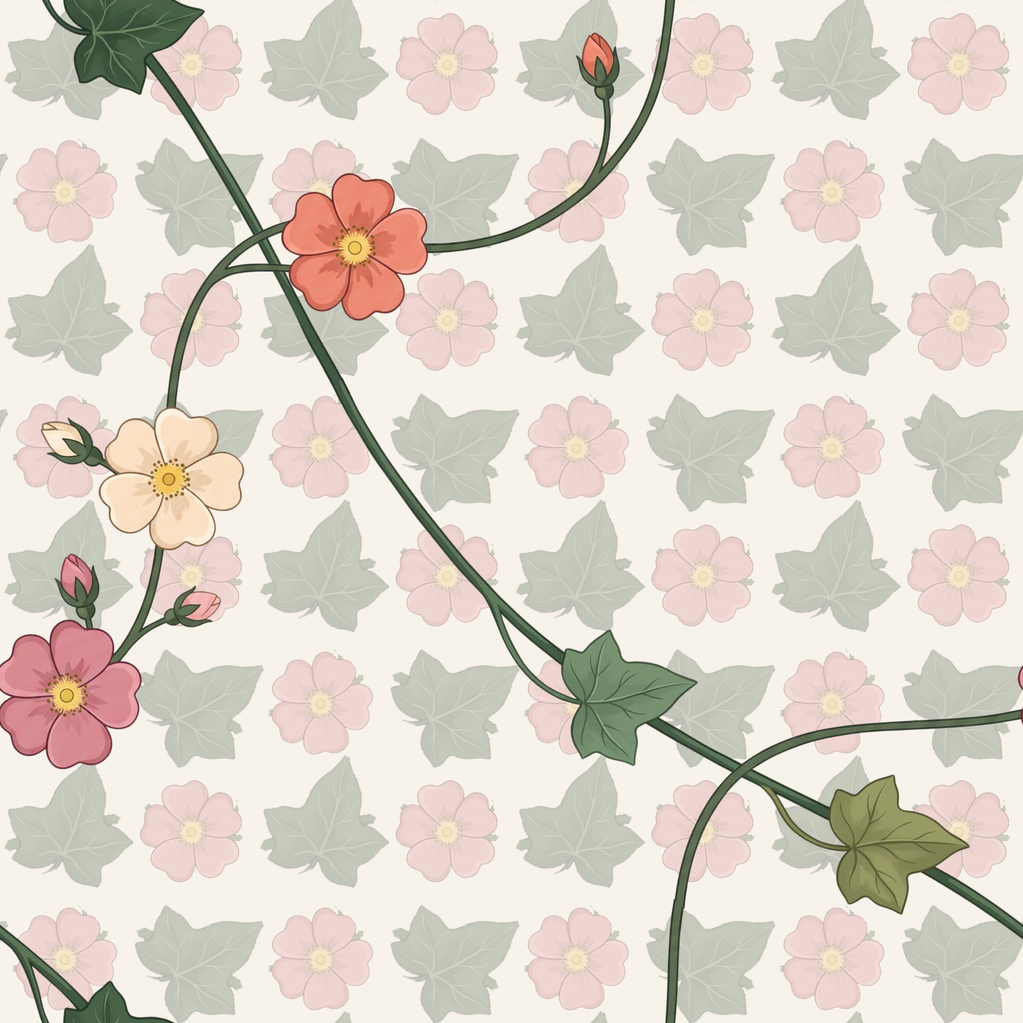
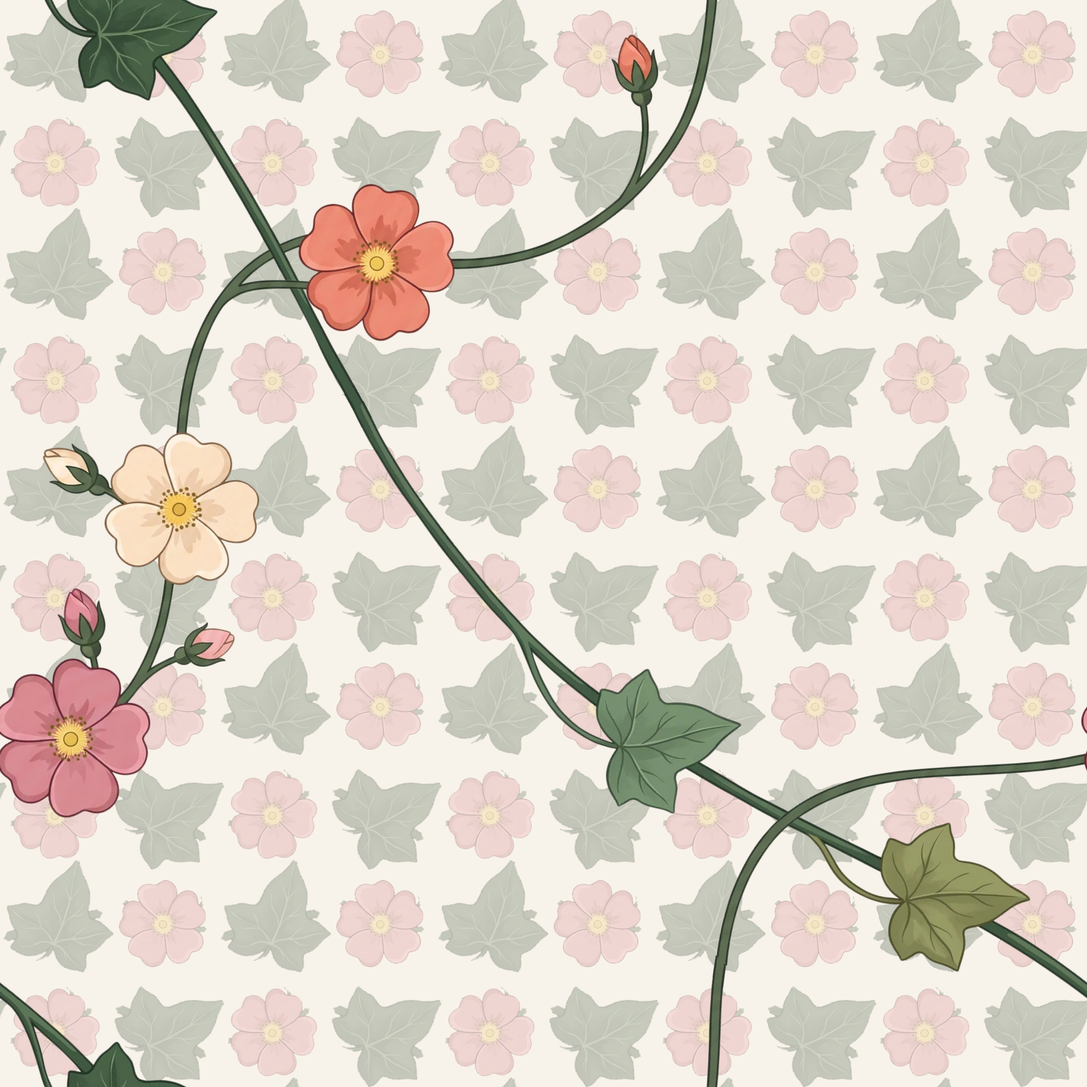
Ситец: геометрическая маска стебля (над/под, 14 узлов), два слоя на R=2175 n=5 с плиткой Gemini, промпты ФОН и C v2, холсты Printify
Claude-Session: https://claude.ai/code/session_01V1ND1TKADLpK8q5yuLYU2P

diff --git a/паттерн_ситец/фон/фон_и_лозы.py b/паттерн_ситец/фон/фон_и_лозы.py
@@ -1,12 +1,15 @@
-# Пример «два слоя»: бледный мелкий фон с шагом R/4 (бесшовен, т.к. 4 повтора на плитку) + 2 крупные лозы (A листья, B шиповник).
-#   python -I фон/фон_и_лозы.py --fg фон/перед_AB_прозр.png --out фон/пример_2_слоя.png
+# «Два слоя»: мелкий ditsy-фон с шагом R/n (бесшовен, т.к. n целых повторов на плитку) + 2 крупные лозы (A листья, B шиповник).
+# R=2175 (=4350/2, делит 8700), n=5 -> шаг 435 px. Фон: --tile фон/ditsy_плитка.png (картинка из Gemini, промпт в ПРОМПТЫ_ситец.md),
+# без --tile рисуется временный фон из вырезок лент (грубый).
+#   python -I сборка_по_узлам.py --size 2175 --params узлы/параметры_v3_AB.json --prefix схема3_ --out фон/перед_AB.png
+#   python -I фон/фон_и_лозы.py --size 2175 --n 5 --tile фон/ditsy_плитка.png --fg фон/перед_AB_прозр.png --out фон/ситец_2слоя.png
 import argparse, random, math
 import numpy as np
 from PIL import Image
 from scipy import ndimage as ndi
 ap=argparse.ArgumentParser(); ap.add_argument('--fg',default='фон/перед_AB_прозр.png'); ap.add_argument('--out',default='фон/пример_2_слоя.png')
-ap.add_argument('--bg',default='F8F3EA'); ap.add_argument('--tint',type=float,default=0.28); ap.add_argument('--n',type=int,default=4); a=ap.parse_args()
-random.seed(3); R=2048; P=R//a.n
+ap.add_argument('--bg',default='F8F3EA'); ap.add_argument('--tint',type=float,default=0.28); ap.add_argument('--n',type=int,default=5); ap.add_argument('--size',type=int,default=2175); ap.add_argument('--tile',default=''); ap.add_argument('--tint_k',type=float,default=1.0); a=ap.parse_args()
+random.seed(3); R=a.size; assert R%a.n==0, 'size должен делиться на n нацело'; P=R//a.n
 bgc=tuple(int(a.bg[i:i+2],16) for i in (0,2,4))
 def comps(path,minarea,maxarea):
     im=Image.open(path).convert('RGBA'); arr=np.array(im); al=arr[...,3]>200
@@ -20,18 +23,33 @@ def comps(path,minarea,maxarea):
             ys,xs=np.nonzero(m); crop=arr[ys.min():ys.max()+1,xs.min():xs.max()+1].copy()
             crop[...,3]=np.where(m[ys.min():ys.max()+1,xs.min():xs.max()+1],crop[...,3],0); out.append(Image.fromarray(crop))
     return out
-leaves=comps('лента/схема3_A.png',8000,10**7); flowers=comps('лента/схема3_B.png',8000,10**7)
-print('листьев',len(leaves),'цветов',len(flowers))
-def tint(im,s):
-    arr=np.array(im).astype(float); arr[...,:3]=arr[...,:3]*s+np.array(bgc)*(1-s); return Image.fromarray(arr.astype(np.uint8))
-def fit(im,h): return im.resize((max(1,int(im.width*h/im.height)),h),Image.LANCZOS)
-tile=Image.new('RGBA',(P,P),bgc+(255,))
-spots=[(0.25,0.25,leaves,0.50,18),(0.75,0.25,flowers,0.40,0),(0.25,0.75,flowers,0.40,40),(0.75,0.75,leaves,0.50,-25)]
-for fx,fy,pool,hh,rot in spots:
-    m=tint(random.choice(pool),a.tint); m=fit(m,int(P*hh)).rotate(rot,expand=True,resample=Image.BICUBIC)
-    for ox in (-P,0,P):                                        # обёртка по тору: часть, ушедшая за край, возвращается с другой стороны
-        for oy in (-P,0,P):
-            tile.paste(m,(int(fx*P-m.width/2)+ox,int(fy*P-m.height/2)+oy),m)
+def gemini_tile(path):
+    """Плитка из Gemini -> P×P: цвет её фона приводится к --bg делением по каналам, края в 4 px заливаются фоном (шов исключён)."""
+    im=Image.open(path).convert('RGB'); w,h=im.size; arr=np.array(im).astype(float)
+    ring=np.concatenate([arr[:12].reshape(-1,3),arr[-12:].reshape(-1,3),arr[:,:12].reshape(-1,3),arr[:,-12:].reshape(-1,3)])
+    est=np.median(ring,axis=0); print('фон плитки Gemini',est.astype(int),'-> цель',bgc)
+    edge=np.zeros((h,w),bool); e=max(2,int(round(.03*min(w,h)))); edge[:e]=edge[-e:]=True; edge[:,:e]=edge[:,-e:]=True
+    touch=100*((np.abs(arr-est).max(axis=2)>28)&edge).sum()/edge.sum()
+    print('ВНИМАНИЕ: мотивы у края плитки Gemini (%.2f%% кромки), будут срезаны, перегенерировать'%touch if touch>0.2 else 'кромка плитки Gemini чистая (%.2f%%)'%touch)
+    arr=np.clip(arr/est*np.array(bgc),0,255)
+    arr=arr*a.tint_k+np.array(bgc)*(1-a.tint_k)
+    arr[:4]=arr[-4:]=bgc; arr[:,:4]=arr[:,-4:]=bgc
+    return Image.fromarray(arr.astype(np.uint8)).resize((P,P),Image.LANCZOS).convert('RGBA')
+if a.tile:
+    tile=gemini_tile(a.tile)
+else:
+    leaves=comps('лента/схема3_A.png',8000,10**7); flowers=comps('лента/схема3_B.png',8000,10**7)
+    print('листьев',len(leaves),'цветов',len(flowers))
+    def tint(im,s):
+        arr=np.array(im).astype(float); arr[...,:3]=arr[...,:3]*s+np.array(bgc)*(1-s); return Image.fromarray(arr.astype(np.uint8))
+    def fit(im,h): return im.resize((max(1,int(im.width*h/im.height)),h),Image.LANCZOS)
+    tile=Image.new('RGBA',(P,P),bgc+(255,))
+    spots=[(0.25,0.25,leaves,0.50,18),(0.75,0.25,flowers,0.40,0),(0.25,0.75,flowers,0.40,40),(0.75,0.75,leaves,0.50,-25)]
+    for fx,fy,pool,hh,rot in spots:
+        m=tint(random.choice(pool),a.tint); m=fit(m,int(P*hh)).rotate(rot,expand=True,resample=Image.BICUBIC)
+        for ox in (-P,0,P):                                        # обёртка по тору: часть, ушедшая за край, возвращается с другой стороны
+            for oy in (-P,0,P):
+                tile.paste(m,(int(fx*P-m.width/2)+ox,int(fy*P-m.height/2)+oy),m)
 bg=Image.new('RGBA',(R,R))
 for x in range(a.n):
     for y in range(a.n): bg.paste(tile,(x*P,y*P))
@@ -40,6 +58,8 @@ t=Image.new('RGB',(R*2,R*2))
 for x in (0,1):
     for y in (0,1): t.paste(out,(x*R,y*R))
 t.resize((1600,1600),Image.LANCZOS).save(a.out.replace('.png','_2x2.jpg'),quality=90)
+t.crop((R-600,R-600,R+600,R+600)).save(a.out.replace('.png','_стык2x2_центр.jpg'),quality=92)     # полный размер: крест из 4 копий, 1200×1200 вокруг стыка
+t.crop((R-600,0,R+600,1200)).save(a.out.replace('.png','_стык2x2_верх.jpg'),quality=92)
 o=np.array(out).astype(float); inner=(np.abs(o[:,1:]-o[:,:-1]).mean()+np.abs(o[1:]-o[:-1]).mean())/2
 # швы фона: разница на границах под-плиток (каждые P px) против обычных соседних столбцов/строк
 def seam(o,P):

diff --git a/паттерн_ситец/сборка_по_узлам.py b/паттерн_ситец/сборка_по_узлам.py
@@ -29,26 +29,27 @@ LINES = [dict(p=GEO[k][0], q=GEO[k][1], c=PH[k].get('c', C0[k]), x0=PH[k].get('x
               flip=PH[k]['flip'], ph=PH[k]['ph']) for k in PH]
 
 
-def vine_only(im):
+GUIDE = dict(A='синяя', B='красная', C='зелёная', D='оранжевая')
+GCOL = dict(A=(40, 90, 220), B=(220, 50, 50), C=(30, 150, 60), D=(240, 140, 10))
+
+
+def vine_only(im, key=None, half=9):
+    """Маска «только стебель»: непрозрачные пиксели ближе half px к кривой направляющей (цветная линия в узлы/направляющая_v3_*).
+    Раньше маску растили заливкой по цвету от левого края — цвет стебля плывёт, заливка обрывалась на трети ленты и узлов не находилось."""
     arr = np.array(im)
-    x = 8
-    ys = np.where(arr[:, x, 3] > 200)[0]
-    groups = np.split(ys, np.where(np.diff(ys) > 3)[0] + 1)
-    g = groups[-1]
-    sy = int(g.mean())
-    seed = arr[sy - 2:sy + 3, x - 2:x + 3, :3].reshape(-1, 3).mean(axis=0)
-    d = np.abs(arr[..., :3].astype(int) - seed[None, None, :]).max(axis=2)
-    cand = (d < 28) & (arr[..., 3] > 200)
-    lab, _ = ndi.label(cand, structure=np.ones((3, 3)))
-    m = lab == lab[sy, x]
-    m = ndi.binary_dilation(m, iterations=3) & (arr[..., 3] > 40)
+    g = np.array(Image.open(f'узлы/направляющая_v3_{key}_{GUIDE[key]}.png').convert('RGB')).astype(int)
+    curve = (np.abs(g - np.array(GCOL[key])).max(axis=2) < 40)
+    if curve.shape != arr.shape[:2]:
+        curve = np.array(Image.fromarray(curve.astype(np.uint8) * 255).resize((arr.shape[1], arr.shape[0]), Image.NEAREST)) > 0
+    dist = ndi.distance_transform_edt(~curve)
+    m = (dist <= half) & (arr[..., 3] > 40)
     out = arr.copy(); out[..., 3] = np.where(m, arr[..., 3], 0)
     return Image.fromarray(out)
 
 
 def load(name):
     im = Image.open(os.path.join(a.dir, name + '.png')).convert('RGBA')
-    return im, vine_only(im)
+    return im, vine_only(im, name[-1])
 
 
 def piece(im, T, flip, m):
@@ -118,7 +119,7 @@ for i in range(len(layers)):
                 continue
             ys, xs = np.nonzero(mk)
             node_list.append((i, j, xs.mean(), ys.mean()))
-print('узлов пересечения:', len(node_list))
+print('узлов пересечения:', len(node_list), [(round(x), round(y)) for _, _, x, y in node_list])
 yy, xx = np.mgrid[0:R, 0:R]
 for idx, (i, j, x, y) in enumerate(sorted(node_list, key=lambda t: (round(t[3] / 150), t[2]))):
     win = i if idx % 2 == 0 else j

diff --git a/паттерн_ситец/холсты_ситец.py b/паттерн_ситец/холсты_ситец.py
@@ -1,0 +1,30 @@
+# Холсты Printify (Fabric by Yard, Cotton Twill, 150 dpi) из бесшовной плитки ситца 2175×2175 (2175 = 4350/2, делит 8700 нацело).
+# Плитка бесшовна по построению, поэтому холст = плитка, уложенная и обрезанная по размеру, пиксель в пиксель, без масштабирования.
+# Каждая граница повтора внутри холста проверяется: перепад на ней сравнивается с перепадом внутри плитки.
+#   python -I холсты_ситец.py --tile фон/ситец_2слоя.png --out холсты [--only 29x18,58x36]
+import argparse, os
+import numpy as np
+from PIL import Image
+Image.MAX_IMAGE_PIXELS = None
+SIZES = {'29x18': (4350, 2700), '58x36': (8700, 5400), '58x108': (8700, 16200), '58x180': (8700, 27000)}
+ap = argparse.ArgumentParser()
+ap.add_argument('--tile', required=True); ap.add_argument('--out', default='холсты'); ap.add_argument('--only', default='')
+ap.add_argument('--quality', type=int, default=90)
+a = ap.parse_args(); os.makedirs(a.out, exist_ok=True)
+tile = np.array(Image.open(a.tile).convert('RGB')); H, W = tile.shape[:2]
+assert H == W and 8700 % W == 0, f'плитка {W}×{H}: нужен квадрат, ширина делит 8700'
+d = lambda a_, b_: float(np.abs(a_.astype(int) - b_.astype(int)).mean())
+inner = (d(tile[:, 1:], tile[:, :-1]) + d(tile[1:], tile[:-1])) / 2
+print(f'плитка {W}×{H}; перепад внутри {inner:.2f}')
+for key, (w, h) in SIZES.items():
+    if a.only and key not in a.only.split(','): continue
+    nx, ny = -(-w // W), -(-h // H)
+    img = np.tile(tile, (ny, nx, 1))[:h, :w]
+    cols = [d(img[:, x], img[:, x - 1]) for x in range(W, w, W)]; rows = [d(img[y], img[y - 1]) for y in range(H, h, H)]
+    cm, rm = (max(cols) if cols else 0.0), (max(rows) if rows else 0.0)
+    print(f'{key}: {w}×{h}; границ повтора по x {len(cols)} (макс. перепад {cm:.2f}), по y {len(rows)} (макс. {rm:.2f}); внутри {inner:.2f}')
+    assert max(cm, rm) < inner * 1.5 + 0.5, 'шов заметнее внутреннего перепада'
+    path = os.path.join(a.out, f'холст_{key}_{w}x{h}.jpg')
+    Image.fromarray(img).save(path, quality=a.quality, subsampling=0, dpi=(150, 150))
+    print(f'  {path}: {os.path.getsize(path) / 1e6:.1f} МБ')
+    del img

diff --git a/паттерн_ситец/узлы/направляющие_v3_залитые.py b/паттерн_ситец/узлы/направляющие_v3_залитые.py
@@ -1,0 +1,18 @@
+# Запасные направляющие для лент схемы v3: кривая СЕРАЯ (зелёная/цветная похожа на стебель, и Gemini её рисует),
+# круги ЗАЛИТЫ светло-серым (Gemini крупнит украшения за контур, а залитый круг читается как «поле для рисунка»).
+# Геометрия та же, что в узлы/направляющие_v3.py (кривая из схема_v3.json + развёртка в ленту).
+#   python -I узлы/направляющие_v3_залитые.py
+import json, math
+from PIL import Image, ImageDraw
+R=2048; ZONE=150
+st=json.load(open('узлы/схема_v3.json',encoding='utf8')); PQ=dict(A=(1,1),B=(1,-1),C=(1,2),D=(2,1))
+SIZE=dict(A=(2000,660),B=(2000,660),C=(2000,438),D=(2000,438)); NAME=dict(A='A',B='B',C='C',D='D')
+for k,prm in st['prm'].items():
+    p,q=PQ[k]; loop=R*math.hypot(p,q); W,H=SIZE[k]; kk=loop/W
+    ss=sorted(st['s'][k]); gaps=[((ss[(i+1)%len(ss)]-s)%1,s) for i,s in enumerate(ss)]; g,s0=max(gaps); o=(s0+g/2)%1
+    f=lambda x: H/2+prm['amp']/kk*math.sin(2*math.pi*prm['cyc']*((x/W+o)%1)+prm['ph'])
+    im=Image.new('RGB',(W,H),(255,255,255)); d=ImageDraw.Draw(im)
+    for s in ss:
+        x=((s-o)%1)*W; r=ZONE/kk; d.ellipse([x-r,f(x)-r,x+r,f(x)+r],fill=(214,214,214))
+    d.line([(x,f(x)) for x in range(W)],fill=(110,110,110),width=7)
+    im.save(f'узлы/направляющая_v3_{k}_серая_залитая.png'); print(k,W,H)

diff --git a/паттерн_ситец/ПРОМПТЫ_ситец.md b/паттерн_ситец/ПРОМПТЫ_ситец.md
@@ -1,4 +1,5 @@
 # Промпты Gemini для лент схемы v3 (ситец)
+Слои «два слоя» (2 лозы A+B поверх фона): фон — раздел «ФОН» в конце файла. Виноград C — раздел «C v2» в конце файла.
 К каждому промпту прикладывать: 1) свою направляющую `узлы/направляющая_v3_<X>_<цвет>.png` (цветная кривая + чёрные круги), 2) `лист_образцов.png`.
 Результат сохранять как `лента/схема3_<X>.png` (прозрачный фон). Общие правила: украшения только внутри чёрных кругов, вне кругов голый стебель, края слева/справа совпадают по высоте/толщине/наклону.
 
@@ -72,4 +73,43 @@
 10. РЕЗУЛЬТАТ: одна лента на белом фоне, украшения только внутри кругов.
 
 Приложены: 1) направляющая с цветной линией и чёрными кругами, 2) лист образцов.
+```
+
+## ФОН — плитка ditsy (мелкие цветочки и веточки), квадрат 1:1, ложится с шагом R/5 (435 px при R=2175)
+Результат сохранить как `фон/ditsy_плитка.png` (квадрат, любой размер от 1024). Сборка: `python -I фон/фон_и_лозы.py --size 2175 --n 5 --tile фон/ditsy_плитка.png --fg фон/перед_AB_прозр.png --out фон/ситец_2слоя.png`.
+Края плитки должны быть пустыми: плитка не рисуется «внахлёст через край», шов получается потому, что у края нет рисунка (скрипт сам приводит цвет фона к кремовому F8F3EA и заливает кромку).
+```
+РИСУЙ: маленькую квадратную плитку-фон для ситцевой ткани: мелкие, редкие, разбросанные в беспорядке цветочки, бутоны и веточки с листиками в стиле винтажного английского ситца (ditsy chintz), плоская гуашь с очень тонкой обводкой, на ровном кремовом фоне.
+
+1. ФОРМАТ: квадрат 1:1, фон одним ровным кремовым цветом #F8F3EA, без текстуры бумаги, без градиента, без теней и виньетки.
+2. ГЛАВНЫЙ ОБЪЕКТ: 18 мелких мотивов, равномерно рассыпанных по квадрату вразброс, без рядов, колонок и решётки: 8 крошечных пятилепестковых цветочков, 5 веточек с 3–5 мелкими листиками, 3 бутона на короткой ножке, 2 одиночных листика. Каждый мотив занимает не больше 9% стороны картинки, то есть они мелкие, как на фоне, а не как главные цветы.
+3. РАЗМЕЩЕНИЕ: расстояние между соседними мотивами не меньше половины размера самого мотива, но не больше двух размеров, чтобы не было ни слипшихся групп, ни больших пустых мест. Каждый мотив повёрнут по-своему (случайный угол 0–360°). Одинаковых соседей рядом нет: цветочки чередуются с веточками.
+4. КРАЯ: ни один мотив не касается края картинки и не заходит за него. Вдоль всех четырёх сторон остаётся пустая полоса фона шириной не меньше 6% стороны. Мотивы не обрезаны.
+5. ПАЛИТРА: приглушённая, как выцветший ситец: пыльно-розовый, кремовый с жёлтой серединкой, шалфейный зелёный, светло-голубой, бледно-лиловый. Контраст к фону невысокий, ничего чёрного и ничего ярко-красного.
+6. СТИЛЬ: ручная роспись гуашью, лепестки и листья заливкой одного цвета с одним более тёмным оттенком внутри, обводка тонкая, в тон мотиву (не чёрная).
+7. ПЕРЕХОД: картинка потом будет повторяться плиткой 5×5 по горизонтали и вертикали, поэтому у каждого края мотивов нет вовсе, вся плотность внутри.
+8. ЧТО ВНУТРИ: только мотивы на ровном фоне.
+9. НЕЛЬЗЯ: крупные цветы, пионы, виноград, бабочки, птицы, рамки, подписи, линии и стебли, соединяющие мотивы, тени под мотивами, текстуру ткани, конфетти из мелких точек, фон другого цвета, мотивы у края.
+10. РЕЗУЛЬТАТ: одна квадратная картинка на кремовом фоне, 18 мелких мотивов внутри, вокруг пустая рамка фона.
+
+Приложен: лист образцов (только для стиля и цветов, композицию с него не копировать).
+```
+
+## C v2 — виноград: гроздь строго внутри круга, лента 4,5:1
+Сохранить как `лента/схема3_C.png` (перезаписать). Исправлено относительно прошлого C: гроздь ниже лозы, лист выше лозы, оба в пределах круга (раньше гроздь уезжала на 150–200 px вниз за круг, ягоды внизу размывались); направляющая серая с залитыми кругами (`узлы/направляющая_v3_C_серая_залитая.png`), зелёную кривую Gemini принимала за стебель.
+```
+РИСУЙ: горизонтальную ленту с одной вьющейся лозой, на которой в четырёх местах висит гроздь винограда с листом, в стиле винтажного английского ситца (chintz), плоская гуашь с тонкой тёмной обводкой, на белом фоне.
+
+1. ФОРМАТ: широкая горизонтальная лента 4,5:1, фон чисто белый.
+2. ГЛАВНЫЙ ОБЪЕКТ: одна тёмно-зелёная лоза, которая точно повторяет изгиб серой линии на изображении. Толщина стебля везде одинаковая, около 1/35 высоты картинки. Серая линия и серые круги — только подсказка, их нельзя рисовать.
+3. ГДЕ УКРАШЕНИЯ: на изображении четыре светло-серых круга, лоза проходит через центр каждого. Диаметр круга около 30% высоты картинки. В каждом круге: один виноградный лист выше лозы (верхняя половина круга) и одна небольшая гроздь ниже лозы (нижняя половина круга), ножка грозди отходит от лозы в центре круга. Гроздь содержит 9–12 ягод, её высота не больше 40% диаметра круга, ширина не больше 45%. Лист по высоте не больше 40% диаметра. Лист, гроздь и ножка целиком лежат внутри серого круга, ни одна ягода и ни один край листа не выходят за его границу. Ягоды круглые, чёткие, непрозрачные, с тёмной обводкой и бликом, самая нижняя ягода такая же чёткая, как верхние, без размытия и полупрозрачности. Четыре грозди разного цвета: сизо-синяя, бордовая, зеленоватая, светло-лиловая.
+4. ВНЕ КРУГОВ: только голый стебель, ни листа, ни ягоды, ни веточки. Всё нарисованное, кроме самой лозы, лежит внутри серых кругов.
+5. КРАЯ: на левом и правом краях картинки стебель на одной высоте, одной толщины и с тем же наклоном, чтобы при склейке копий лоза продолжалась без излома. Рядом с краями ничего, кроме стебля.
+6. ПАЛИТРА: тёмно-зелёный стебель, приглушённые сизые, бордовые, лиловые и зелёные тона, как на листе образцов.
+7. СТИЛЬ: как на листе образцов, ручная роспись, блики на ягодах, прожилки на листьях.
+8. СЕРЫЕ КРУГИ И СЕРАЯ ЛИНИЯ: подсказка расположения, в результате их не должно быть: фон белый, кружков и серой линии нет.
+9. НЕЛЬЗЯ: выходить украшением за круг, грозди больше круга, ягоды вне гроздей, цветы, бабочки, усики вне круга, мелкие точки, тени на фоне, рамки, подписи.
+10. РЕЗУЛЬТАТ: одна лента на белом фоне, в каждом круге лист над лозой и гроздь под лозой, всё внутри круга.
+
+Приложены: 1) направляющая `направляющая_v3_C_серая_залитая.png` (серая линия + серые круги), 2) лист образцов.
 ```

diff --git a/паттерн_ситец/ДОКУМЕНТАЦИЯ_ситец.md b/паттерн_ситец/ДОКУМЕНТАЦИЯ_ситец.md
@@ -89,3 +89,11 @@ python -I узлы/наложение_схемы.py --tile плитка_схем
 - `присланное/` — все 44 картинки, которые присылал пользователь в этой сессии (webp), по порядку присылки: ленты Gemini (плющ, пионы, по_узлам, схема3), схемы, скриншоты.
 - `архив_превью/` — 188 промежуточных превью и результатов (пробные плитки, 2×2, сравнения, кропы стыков, ChatGPT-плитки и т.д.), копия рабочей папки сессии.
 - Не сохранено: только временные массивы .npy и огромные временные файлы (>2.5 МБ PNG 2×2 превращены в JPG).
+
+## 13. Сессия 2026-10-09 (продолжение): что сделано
+Работа велась в ветке `claude/happy-mendel-vruf4u` (в неё влита `claude/vibrant-wright-mh2fe7`).
+1. **Над/под починено.** Причина: `vine_only()` растил маску стебля заливкой по цвету от левого края, цвет стебля плывёт вдоль ленты, маска обрывалась на ~трети ленты (≈6–8 тыс. px вместо ≈28 тыс.). Теперь маска геометрическая: непрозрачные пиксели ближе 9 px к кривой направляющей (`узлы/направляющая_v3_<X>_<цвет>.png`). Результат: 4 лозы → 14 узлов (было 3–10), 2 лозы A+B → 2 узла (det = 2, всё найдено). В обоих узлах лозы чередуются (слева A сверху, справа B сверху), проверено кропом. Печатает координаты узлов.
+2. **Два слоя.** Лозы A и B + фон с шагом R/5. Размер плитки теперь **R=2175** (=4350/2, делит 8700), фон n=5 → шаг 435 px (при n=4 шаг 543.75 нецелый). Лозы собираются `сборка_по_узлам.py --size 2175 --params узлы/параметры_v3_AB.json --prefix схема3_ --out фон/перед_AB.png`, фон и склейка `фон/фон_и_лозы.py --size 2175 --n 5 [--tile фон/ditsy_плитка.png]`. Скрипт принимает плитку из Gemini: цвет её фона приводится к кремовому делением по каналам, кромка 4 px заливается фоном, предупреждает, если мотивы касаются края, проверяет шов на каждой границе под-плитки (на настоящей плитке 0.00). Без `--tile` рисуется временный фон из вырезок (`фон/пример_2_слоя.png`, грубый). Промпт на ditsy-плитку — в `ПРОМПТЫ_ситец.md`, раздел «ФОН». ЖДЁМ плитку из Gemini.
+3. **Виноград C.** Новый промпт «C v2» (лист выше лозы, гроздь ниже, оба в круге, ягоды чёткие) и запасная направляющая `узлы/направляющая_v3_*_серая_залитая.png` (серая кривая, залитые серые круги; скрипт `узлы/направляющие_v3_залитые.py`). Сама лента не сгенерирована (нужен Gemini). Замечание: в плане «2 лозы» C не участвует, нужна только если вернём 4 лозы.
+4. **Холсты.** `холсты_ситец.py --tile <плитка 2175> --out холсты` кладёт плитку и обрезает под 4350×2700, 8700×5400, 8700×16200, 8700×27000 пиксель в пиксель, проверяет каждую границу повтора (макс. перепад на шве 1.50–1.72 против 1.99 внутри). Во `холсты/` лежат ВРЕМЕННЫЕ 29x18 и 58x36 из грубого фона; финальные пересобрать после плитки из Gemini (3-ярдовый ≈20 МБ, 5-ярдовый ≈34 МБ — больше лимита SendUserFile 30 МиБ).
+5. Порядок после Gemini: `фон/ditsy_плитка.png` → собрать `фон/ситец_2слоя.png` → посмотреть `_стык2x2_центр.jpg` в полном размере → `холсты_ситец.py`.
